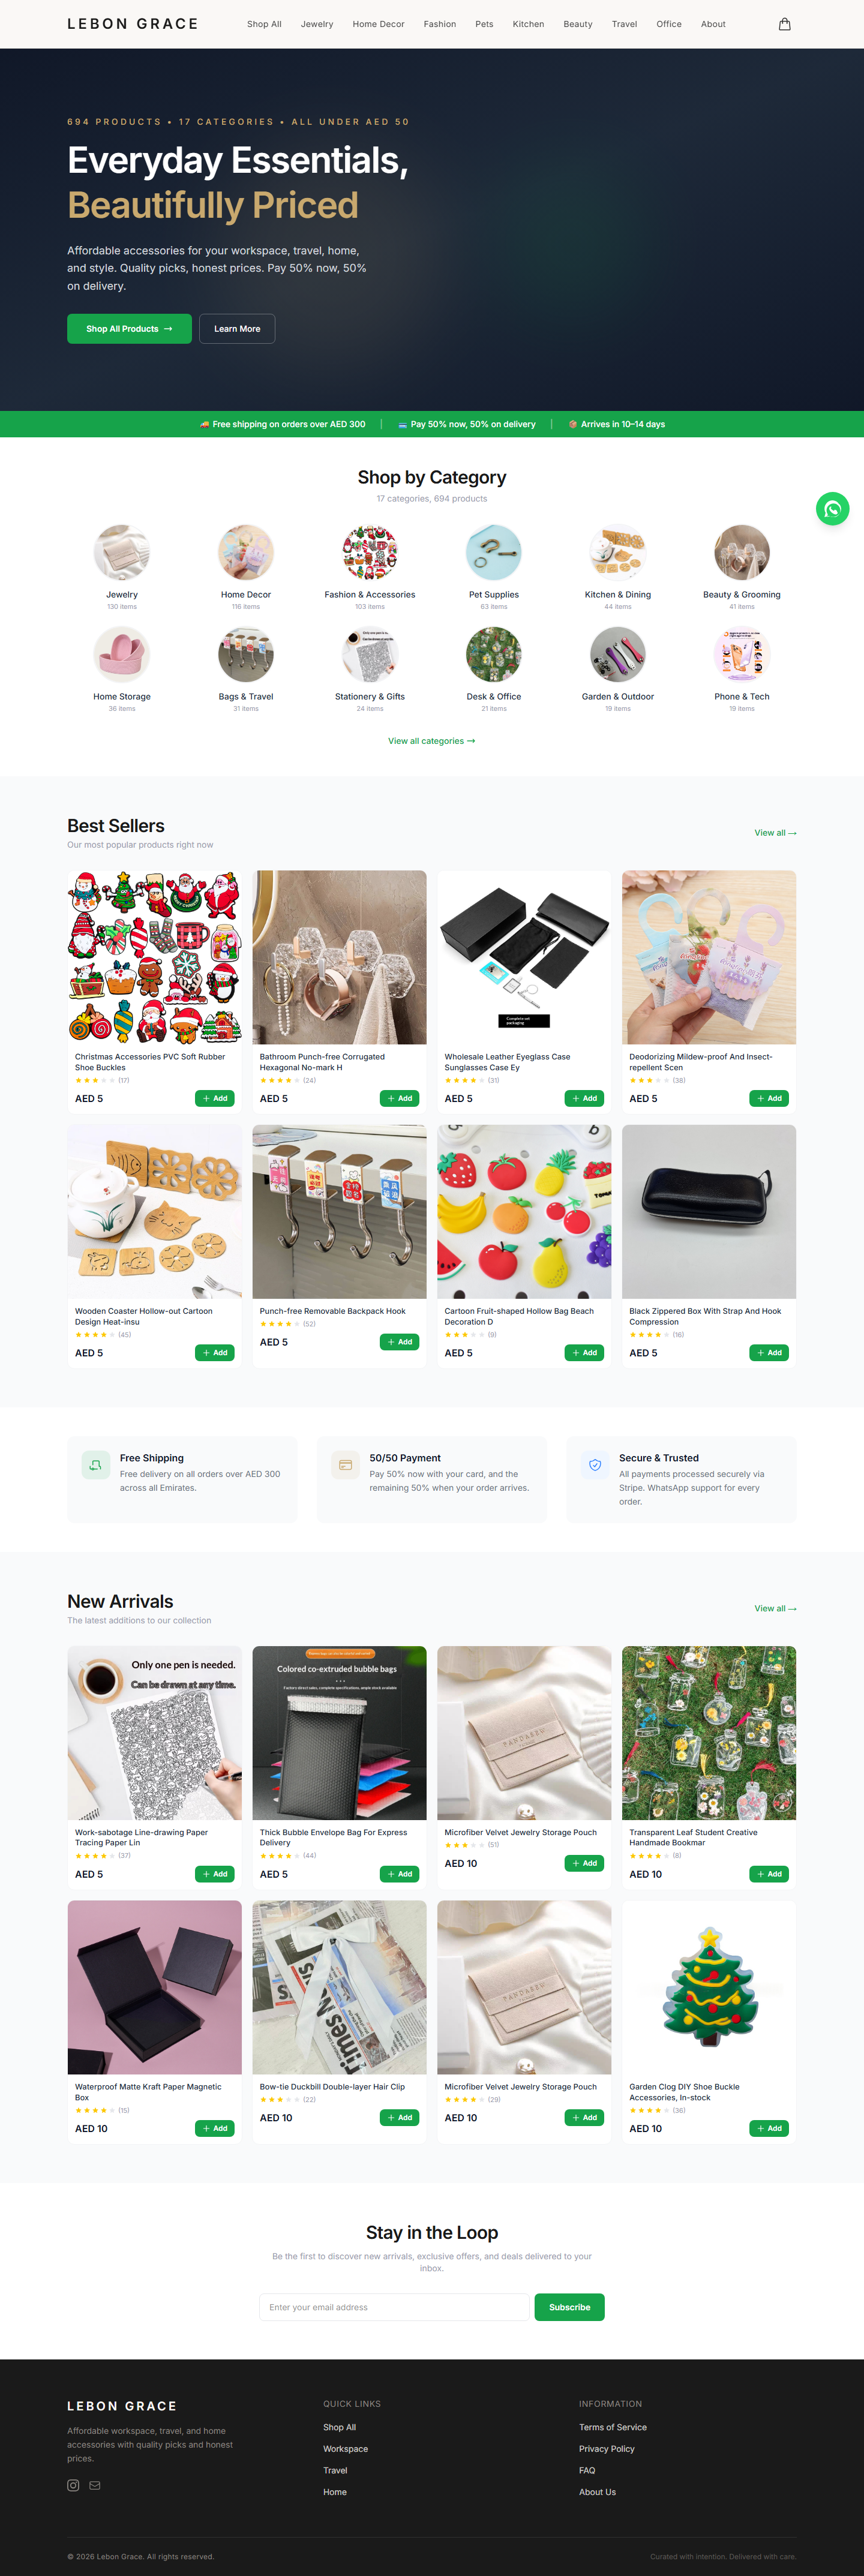
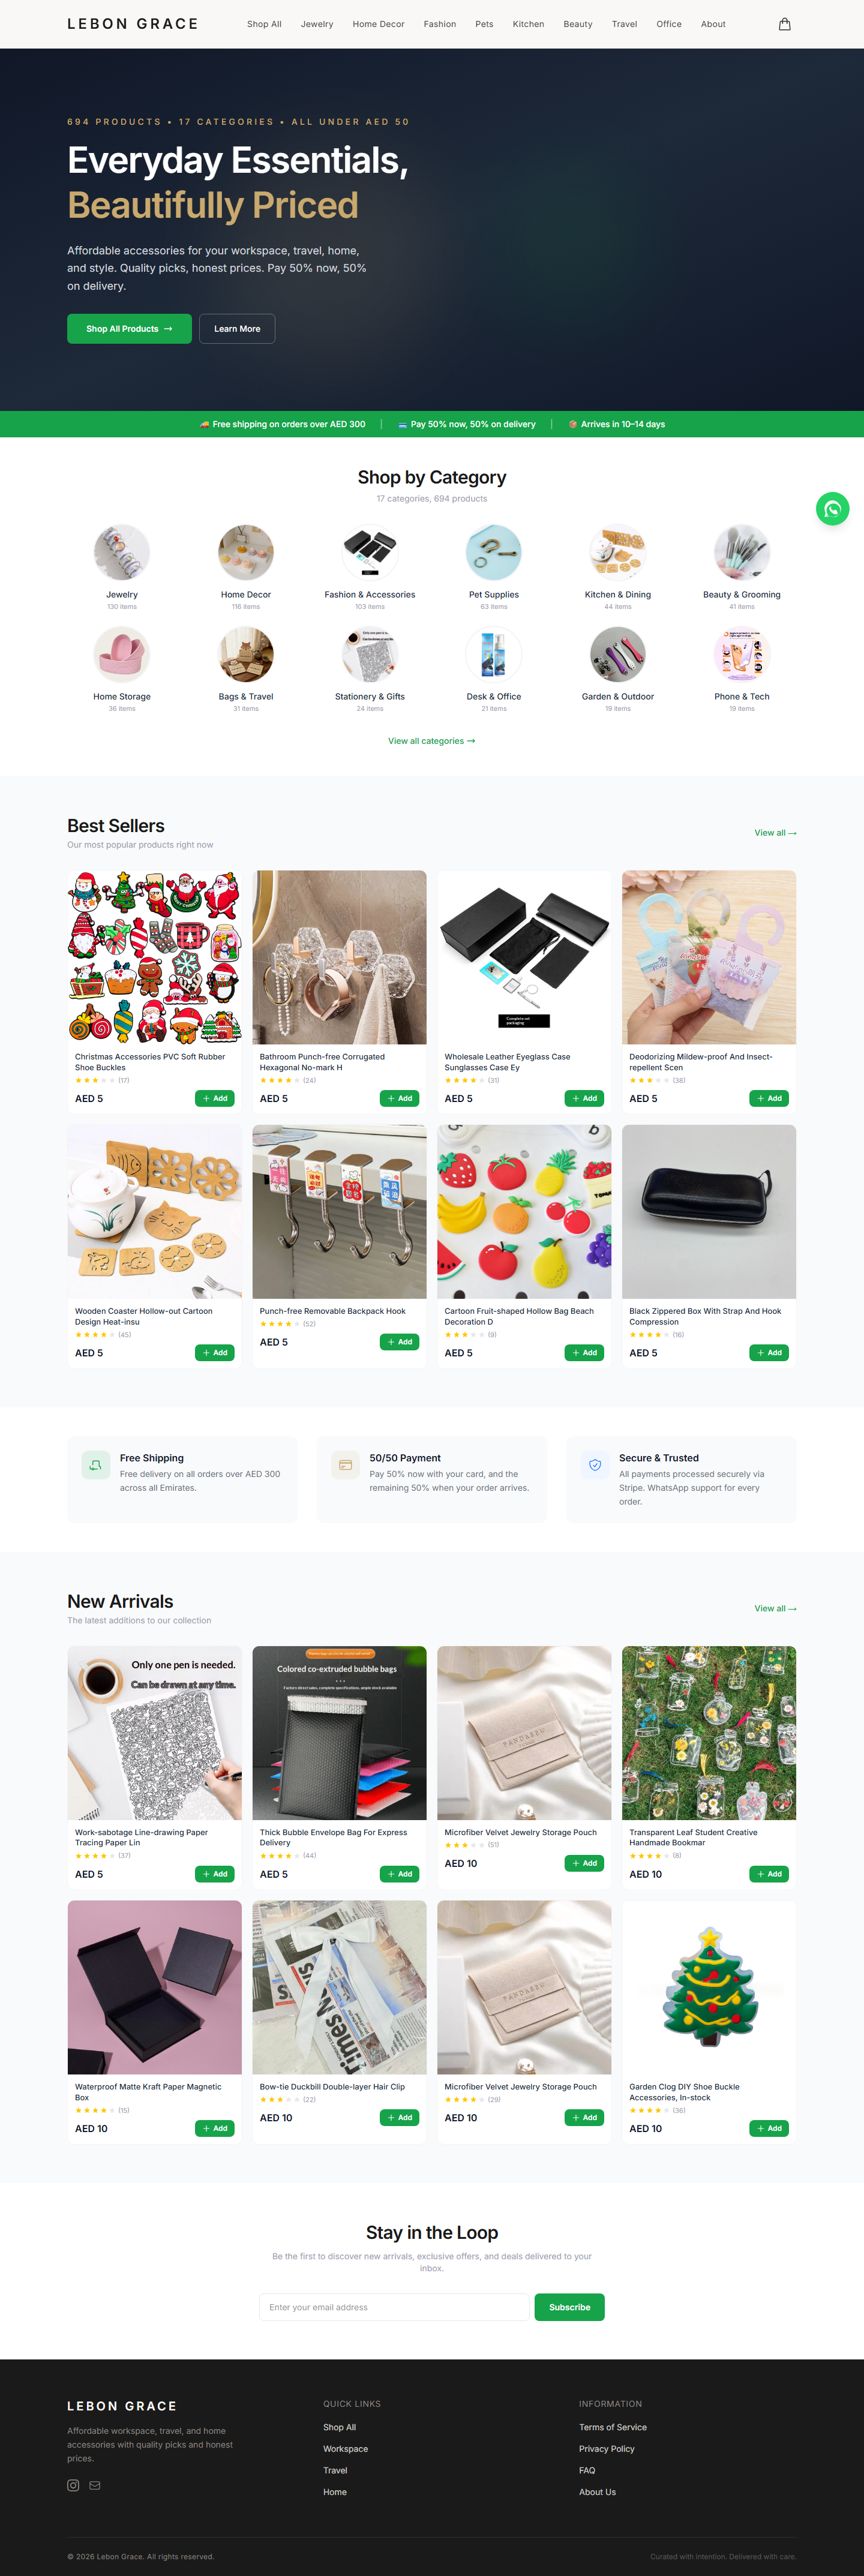
fix: category images now match category names
- Added keyword-based matching for category image selection
- Each category picks products whose names contain relevant keywords
- Jewelry shows earrings, Home Decor shows candles/vases, etc.
- Fallback to first product if no keyword match found
- Fixed on both homepage and shop page

diff --git a/src/app/page.tsx b/src/app/page.tsx
@@ -137,7 +137,27 @@ export default function HomePage() {
           </div>
           <div className="grid grid-cols-3 sm:grid-cols-4 lg:grid-cols-6 gap-6">
             {categories.slice(0, 12).map((cat) => {
-              const sampleProduct = products.find((p) => p.category === cat.name && p.imageUrl);
+              // Pick a product whose name clearly matches the category
+              const categoryKeywords: Record<string, string[]> = {
+                "Jewelry": ["ring", "bracelet", "earring", "necklace", "pendant", "bangle", "chain"],
+                "Home Decor": ["vase", "candle", "blanket", "cushion", "placemat", "frame", "mirror", "clock"],
+                "Fashion & Accessories": ["scarf", "hat", "cap", "belt", "glove", "sunglasses", "eyeglass"],
+                "Pet Supplies": ["pet", "dog", "cat", "collar", "leash", "tag"],
+                "Kitchen & Dining": ["mug", "cup", "spatula", "knife", "board", "coaster", "bowl", "spoon"],
+                "Beauty & Grooming": ["makeup", "brush", "mirror", "curler", "tweezers", "nail", "lip"],
+                "Home Storage": ["basket", "box", "shelf", "organizer", "hanger", "hook"],
+                "Bags & Travel": ["bag", "wallet", "passport", "luggage", "pouch", "packing"],
+                "Stationery & Gifts": ["bookmark", "notebook", "journal", "sticker", "gift", "paper", "pen"],
+                "Desk & Office": ["desk", "laptop", "monitor", "cable", "mouse", "keyboard", "pen holder"],
+                "Garden & Outdoor": ["garden", "plant", "flower", "outdoor", "picnic"],
+                "Phone & Tech": ["phone", "case", "airpod", "earbuds", "charger"],
+              };
+              const keywords = categoryKeywords[cat.name] || [cat.name.toLowerCase().split(" ")[0]];
+              const sampleProduct = products.find((p) =>
+                p.category === cat.name &&
+                p.imageUrl &&
+                keywords.some((kw) => p.name.toLowerCase().includes(kw))
+              ) || products.find((p) => p.category === cat.name && p.imageUrl);
               const count = products.filter(p => p.category === cat.name).length;
               return (
                 <Link key={cat.name} href={"/shop?category=" + encodeURIComponent(cat.name)} className="group flex flex-col items-center gap-3 text-center">

diff --git a/src/app/shop/page.tsx b/src/app/shop/page.tsx
@@ -29,12 +29,26 @@ function StarRating({ rating, count }: { rating: number; count: number }) {
 
 function CategoryShowcase() {
   const topCategories = categories.slice(0, 8);
+  const categoryKeywords: Record<string, string[]> = {
+    "Jewelry": ["ring", "bracelet", "earring", "necklace", "pendant", "bangle", "chain"],
+    "Home Decor": ["vase", "candle", "blanket", "cushion", "placemat", "frame", "mirror", "clock"],
+    "Fashion & Accessories": ["scarf", "hat", "cap", "belt", "glove", "sunglasses", "eyeglass"],
+    "Pet Supplies": ["pet", "dog", "cat", "collar", "leash", "tag"],
+    "Kitchen & Dining": ["mug", "cup", "spatula", "knife", "board", "coaster", "bowl", "spoon"],
+    "Beauty & Grooming": ["makeup", "brush", "mirror", "curler", "tweezers", "nail", "lip"],
+    "Home Storage": ["basket", "box", "shelf", "organizer", "hanger", "hook"],
+    "Bags & Travel": ["bag", "wallet", "passport", "luggage", "pouch", "packing"],
+  };
   return (
     <section className="bg-white border-b border-gray-100">
       <div className="max-w-7xl mx-auto px-4 sm:px-6 lg:px-8 py-8">
         <div className="grid grid-cols-4 sm:grid-cols-4 lg:grid-cols-8 gap-4">
           {topCategories.map((cat) => {
-            const sampleProduct = products.find((p) => p.category === cat.name && p.imageUrl);
+            const keywords = categoryKeywords[cat.name] || [cat.name.toLowerCase().split(" ")[0]];
+            const sampleProduct = products.find((p) =>
+              p.category === cat.name && p.imageUrl &&
+              keywords.some((kw) => p.name.toLowerCase().includes(kw))
+            ) || products.find((p) => p.category === cat.name && p.imageUrl);
             return (
               <Link key={cat.name} href={"/shop?category=" + encodeURIComponent(cat.name)} className="group flex flex-col items-center gap-2 text-center">
                 <div className="w-16 h-16 sm:w-20 sm:h-20 rounded-full overflow-hidden bg-gray-100 border-2 border-transparent group-hover:border-[#16A34A] transition-colors duration-200">